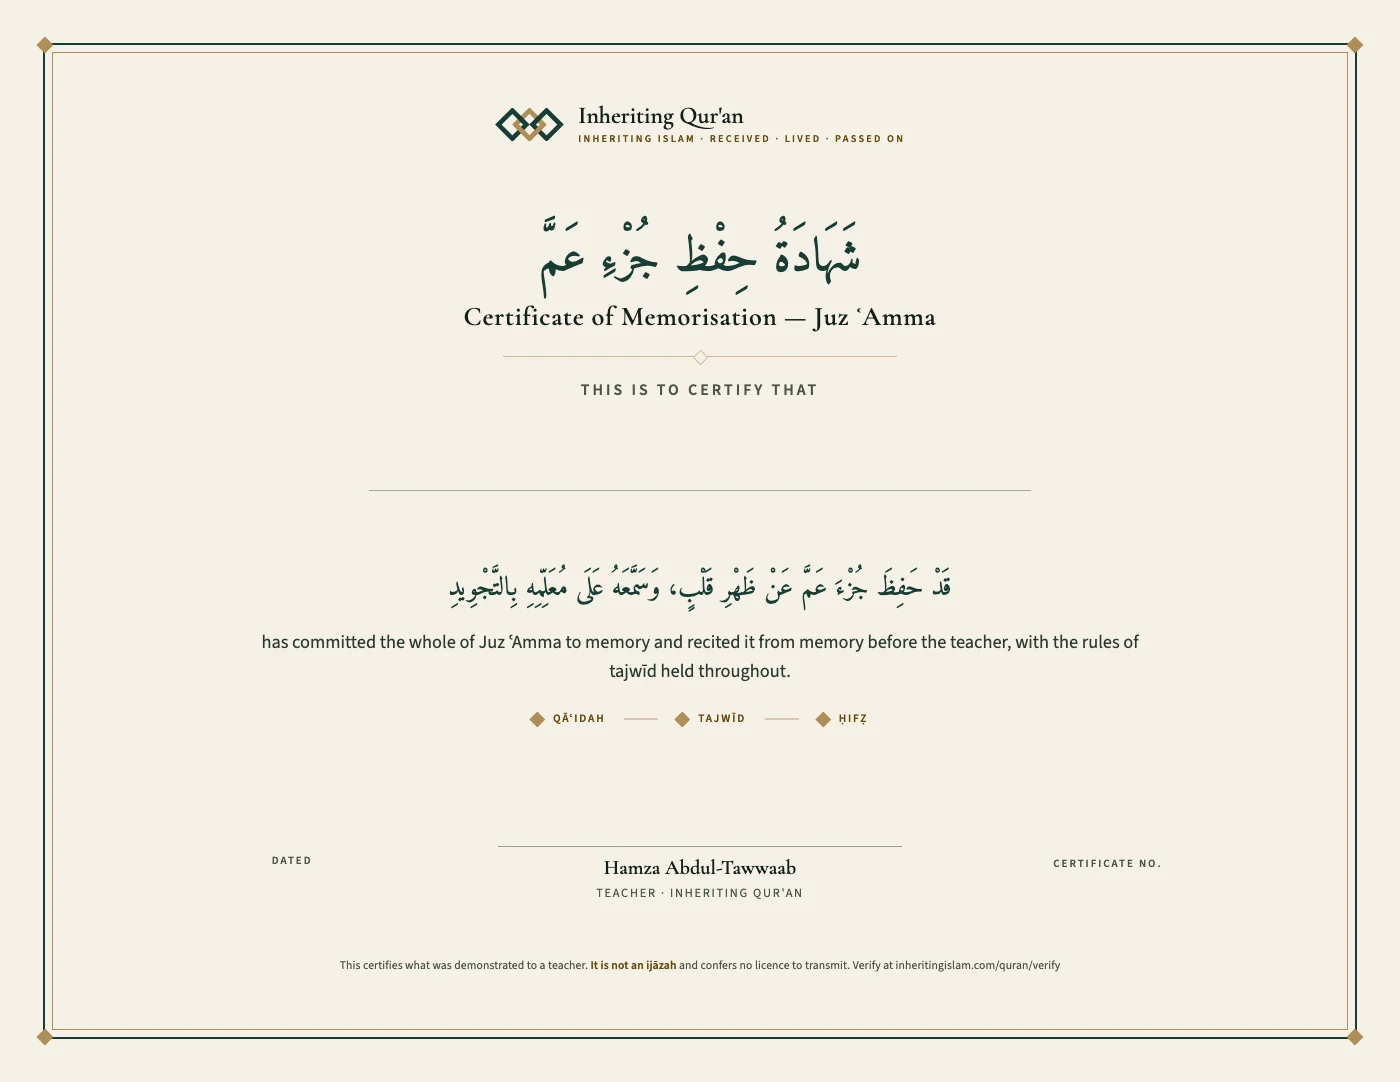
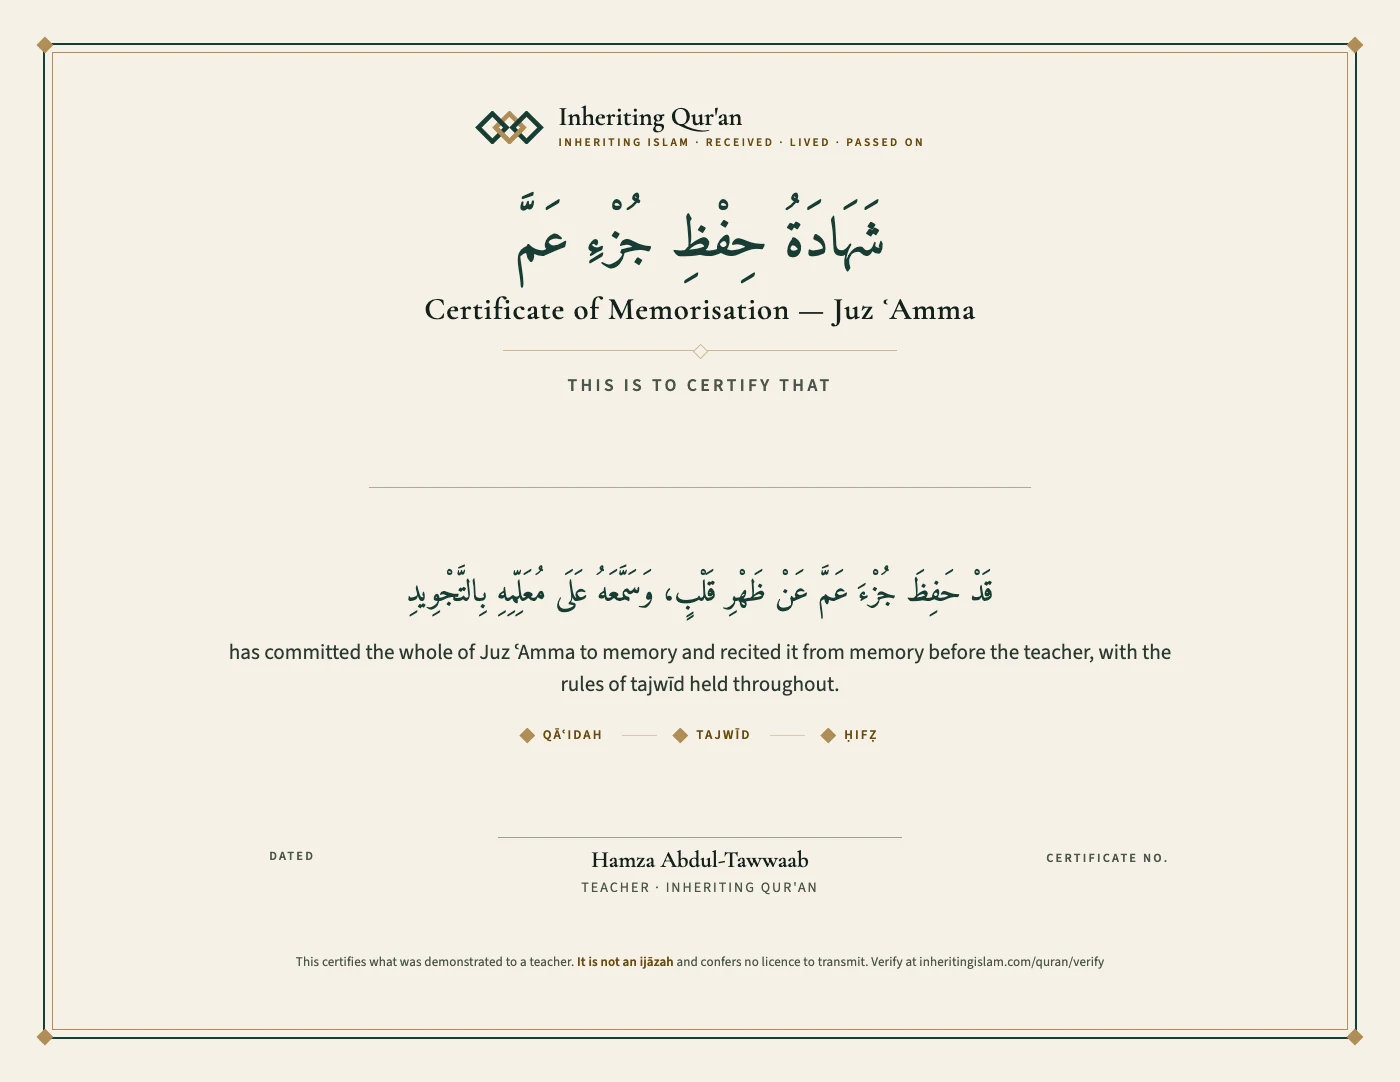
Set the certificates larger
Type up roughly 15-18% throughout, with a little more on the small text
where it was hardest to read: the Arabic title, the name, the body and the
footer labels all gain. Body measures widened to match so nothing wraps
tighter than before.

There was room because the award block is vertically centred with slack,
and the one-page gate would have caught it if there had not been.

diff --git a/tools/certificate.html b/tools/certificate.html
@@ -55,20 +55,20 @@
   /* --- masthead --- */
   .top{display:flex;align-items:center;justify-content:center;gap:11px;margin-bottom:.16in}
   .top svg{width:52px;height:25px;flex:none}
-  .top .wm{font-family:'Cormorant Garamond',Georgia,serif;font-weight:600;font-size:13.5pt;line-height:1;text-align:left}
+  .top .wm{font-family:'Cormorant Garamond',Georgia,serif;font-weight:600;font-size:15pt;line-height:1;text-align:left}
   .top .sub{
-    font-family:'Source Sans 3',sans-serif;font-weight:600;font-size:5.8pt;letter-spacing:.22em;
+    font-family:'Source Sans 3',sans-serif;font-weight:600;font-size:6.5pt;letter-spacing:.22em;
     text-transform:uppercase;color:#674B13;margin-top:3px;text-align:left
   }
 
   /* --- titles --- */
   .ar-title{
     font-family:'Amiri','Geeza Pro',serif;direction:rtl;
-    font-size:27pt;line-height:1.6;color:#183C34;margin:0 0 .04in
+    font-size:31pt;line-height:1.55;color:#183C34;margin:0 0 .04in
   }
   .en-title{
     font-family:'Cormorant Garamond',Georgia,serif;font-weight:600;
-    font-size:15pt;letter-spacing:.03em;line-height:1.2;margin:0
+    font-size:17.5pt;letter-spacing:.03em;line-height:1.2;margin:0
   }
   .rule{
     width:3.1in;height:1px;background:#B08D57;opacity:.55;margin:.17in auto;
@@ -81,17 +81,17 @@
 
   /* --- the award --- */
   .lead{
-    font-family:'Source Sans 3',sans-serif;font-size:9pt;letter-spacing:.19em;
+    font-family:'Source Sans 3',sans-serif;font-size:10pt;letter-spacing:.19em;
     text-transform:uppercase;color:#4B564C;font-weight:600;margin:0 0 .12in
   }
   .name{
     font-family:'Cormorant Garamond',Georgia,serif;font-weight:600;
-    font-size:31pt;line-height:1.1;letter-spacing:-.01em;color:#14201B;
+    font-size:35pt;line-height:1.1;letter-spacing:-.01em;color:#14201B;
     min-height:.52in;display:flex;align-items:center;justify-content:center
   }
   .name-ar{
     font-family:'Amiri','Geeza Pro',serif;direction:rtl;
-    font-size:20pt;line-height:1.7;color:#183C34;min-height:.36in
+    font-size:23pt;line-height:1.7;color:#183C34;min-height:.4in
   }
   /* A blank certificate shows the line it will be written on. */
   .name-line{
@@ -100,12 +100,12 @@
   body.filled .name-line{display:none}
 
   .body-en{
-    font-family:'Source Sans 3',sans-serif;font-size:10.4pt;line-height:1.55;
-    color:#2C3A32;max-width:6.9in;margin:.1in auto 0
+    font-family:'Source Sans 3',sans-serif;font-size:12pt;line-height:1.5;
+    color:#2C3A32;max-width:7.6in;margin:.1in auto 0
   }
   .body-ar{
     font-family:'Amiri','Geeza Pro',serif;direction:rtl;
-    font-size:15pt;line-height:2;color:#183C34;max-width:8in;margin:.1in auto 0
+    font-size:17.5pt;line-height:1.95;color:#183C34;max-width:8.4in;margin:.1in auto 0
   }
 
   /* --- the three tracks, with this one marked --- */
@@ -114,7 +114,7 @@
   .track .dot{width:8px;height:8px;transform:rotate(45deg);border:1px solid #B08D57;background:transparent}
   .track .step.done .dot{background:#B08D57}
   .track .lb{
-    font-family:'Source Sans 3',sans-serif;font-size:6.4pt;letter-spacing:.16em;
+    font-family:'Source Sans 3',sans-serif;font-size:7.4pt;letter-spacing:.16em;
     text-transform:uppercase;color:#8a8578;font-weight:600
   }
   .track .step.done .lb{color:#674B13}
@@ -127,16 +127,16 @@
     grid-template-columns:1fr 1.2fr 1fr;gap:.3in;align-items:end;text-align:center
   }
   .foot .k{
-    font-family:'Source Sans 3',sans-serif;font-weight:600;font-size:6.2pt;letter-spacing:.18em;
+    font-family:'Source Sans 3',sans-serif;font-weight:600;font-size:7pt;letter-spacing:.18em;
     text-transform:uppercase;color:#4B564C;margin-bottom:5px
   }
-  .foot .v{font-family:'Cormorant Garamond',Georgia,serif;font-size:11pt;font-weight:600;line-height:1.25;min-height:.19in}
-  .foot .v .sm{display:block;font-family:'Source Sans 3',sans-serif;font-weight:400;font-size:7.6pt;color:#46544B;margin-top:2px}
+  .foot .v{font-family:'Cormorant Garamond',Georgia,serif;font-size:12.5pt;font-weight:600;line-height:1.25;min-height:.19in}
+  .foot .v .sm{display:block;font-family:'Source Sans 3',sans-serif;font-weight:400;font-size:8.6pt;color:#46544B;margin-top:2px}
   .foot .sigline{border-top:1px solid rgba(20,32,27,.4);padding-top:6px;margin-top:.34in}
-  .foot .sigline .nm{font-family:'Cormorant Garamond',Georgia,serif;font-size:11.5pt;font-weight:600}
-  .foot .sigline .rl{font-family:'Source Sans 3',sans-serif;font-size:7pt;letter-spacing:.14em;text-transform:uppercase;color:#4B564C;margin-top:3px}
+  .foot .sigline .nm{font-family:'Cormorant Garamond',Georgia,serif;font-size:13pt;font-weight:600}
+  .foot .sigline .rl{font-family:'Source Sans 3',sans-serif;font-size:8pt;letter-spacing:.14em;text-transform:uppercase;color:#4B564C;margin-top:3px}
   .verify{
-    margin-top:.13in;font-family:'Source Sans 3',sans-serif;font-size:6.6pt;
+    margin-top:.13in;font-family:'Source Sans 3',sans-serif;font-size:7.4pt;
     color:#4B564C;line-height:1.5;letter-spacing:.01em
   }
   .verify b{font-weight:600;color:#674B13}
